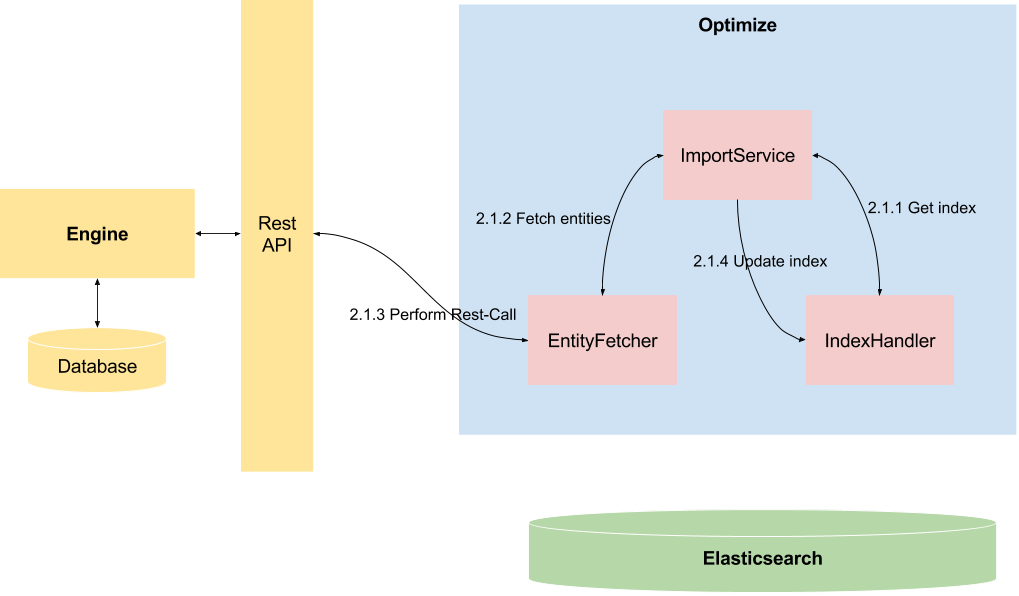
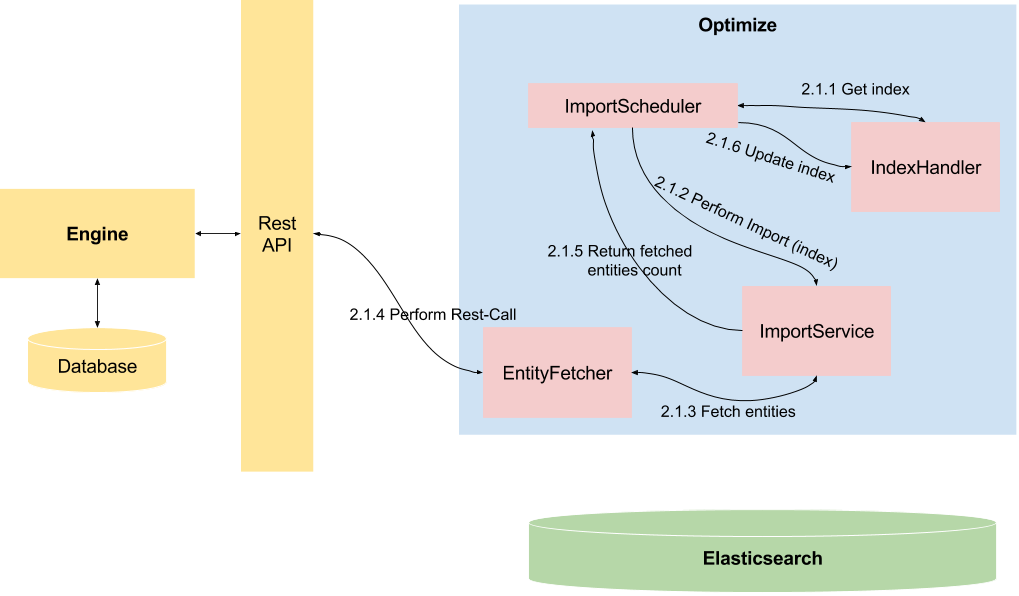
chore(docs): correct engine pagination import description
related to #OPT-517

diff --git a/optimize/content/technical-guide/import/import-procedure.md b/optimize/content/technical-guide/import/import-procedure.md
@@ -68,7 +68,7 @@ Polling a new page does not only consist of the `ImportService`, but there are a
 
 {{< img src="../img/Import-Service-Polling.png" title="ImportService Polling Procedure" >}}
 
-First, the `ImportService` retrieves the newest index, which is saying where to start fetching lines in a table. In addition, a page size is calculated depending on how long the last rest call to the engine took. With the index and the page size, the fetching of the engine data is deligated to the `EnitityFetcher`. Once the `ImportService` retrieved the engine data from the fetcher, the index is updated, so we know which instances have already been scrolled.
+First, the `ImportScheduler` retrieves the newest index, which is saying where to start fetching lines in a table. This index is passed to the `ImportService` ordering to import a page of data. In addition, a page size is calculated depending on how long the last rest call to the engine took. With the index and the page size, the fetching of the engine data is deligated to the `EnitityFetcher`. Once the `ImportService` retrieved the engine data from the fetcher, it passes the number of entities that were fetched to the `ImportScheduler`. With this information the scheduler then is able to update the index, so it is recoded which instances have already been scrolled.
 
 To see how to adapt the page size of the import, have a look at the [respective section]({{< relref "technical-guide/configuration/index.md#pagination" >}}) on the configuration description.
 

diff --git a/optimize/content/technical-guide/import/import-overview.md b/optimize/content/technical-guide/import/import-overview.md
@@ -31,6 +31,8 @@ What is more, one should be aware of what are the general requirements for the d
 * Optimize does not own the data of the engine. The Optimize data set can always be removed and reimported or adapted to the needs of Optimize.
 * The data is only a near real-time representation of the engine database. That means, Elasticsearch may not contain the data of the most recent time frame, e.g. the last two minutes, but all the data before should be synchronized.
 
+If you are interested in the details of the import, have a look at the designated section [Import Procedure]({{< relref "technical-guide/import/import-procedure.md#pagination" >}}).
+
 # Import performance overview
 
 This document gives an overview of how fast optimize imports certain data sets to get a feeling of the import speed of Optimize and if it meets certain demands. However, this presumably changes on different data sets and how all involved components are set up. E.g., if you deploy the Camunda platform on a different machine than Optimize and Elasticsearch the process is likely to speed up.
